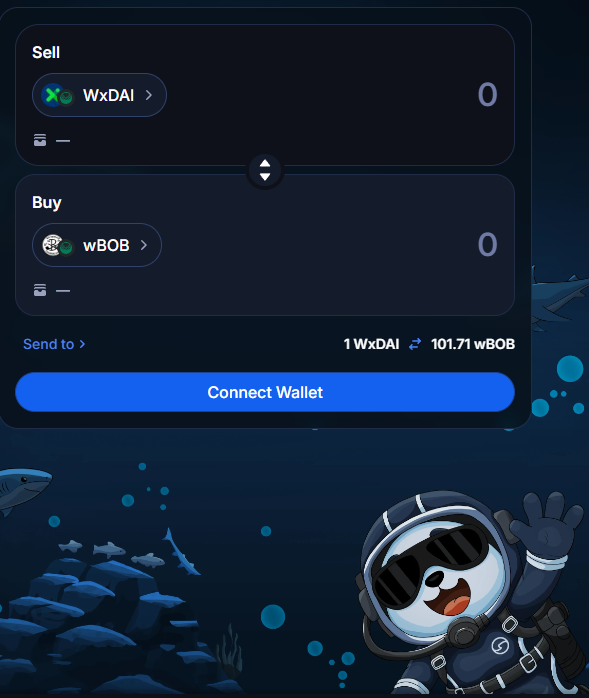
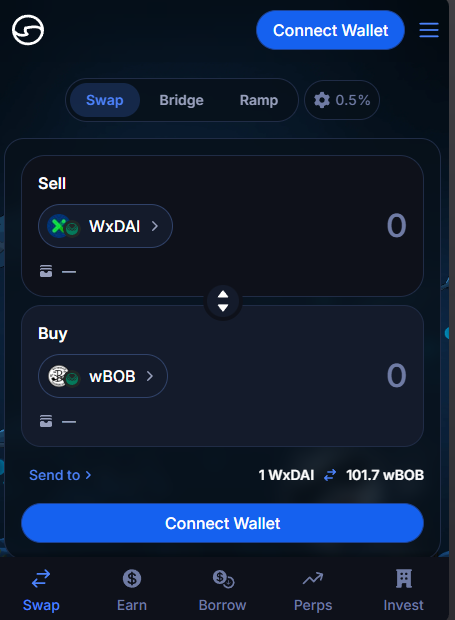
portal: /trade uses the full Oku phone-screen shot, shown whole

diff --git a/portal/src/components/OkuSwapWidget.tsx b/portal/src/components/OkuSwapWidget.tsx
@@ -40,9 +40,9 @@ export function OkuSwapWidget() {
         <img
           src="/oku-trade.png"
           alt="Oku swap box: sell WXDAI, buy wBOB. Click to open Oku.trade."
-          width={589}
-          height={698}
-          className="block w-full h-auto lg:h-[640px] lg:object-cover lg:object-left-top"
+          width={455}
+          height={620}
+          className="block w-full h-auto"
         />
       </a>
 
